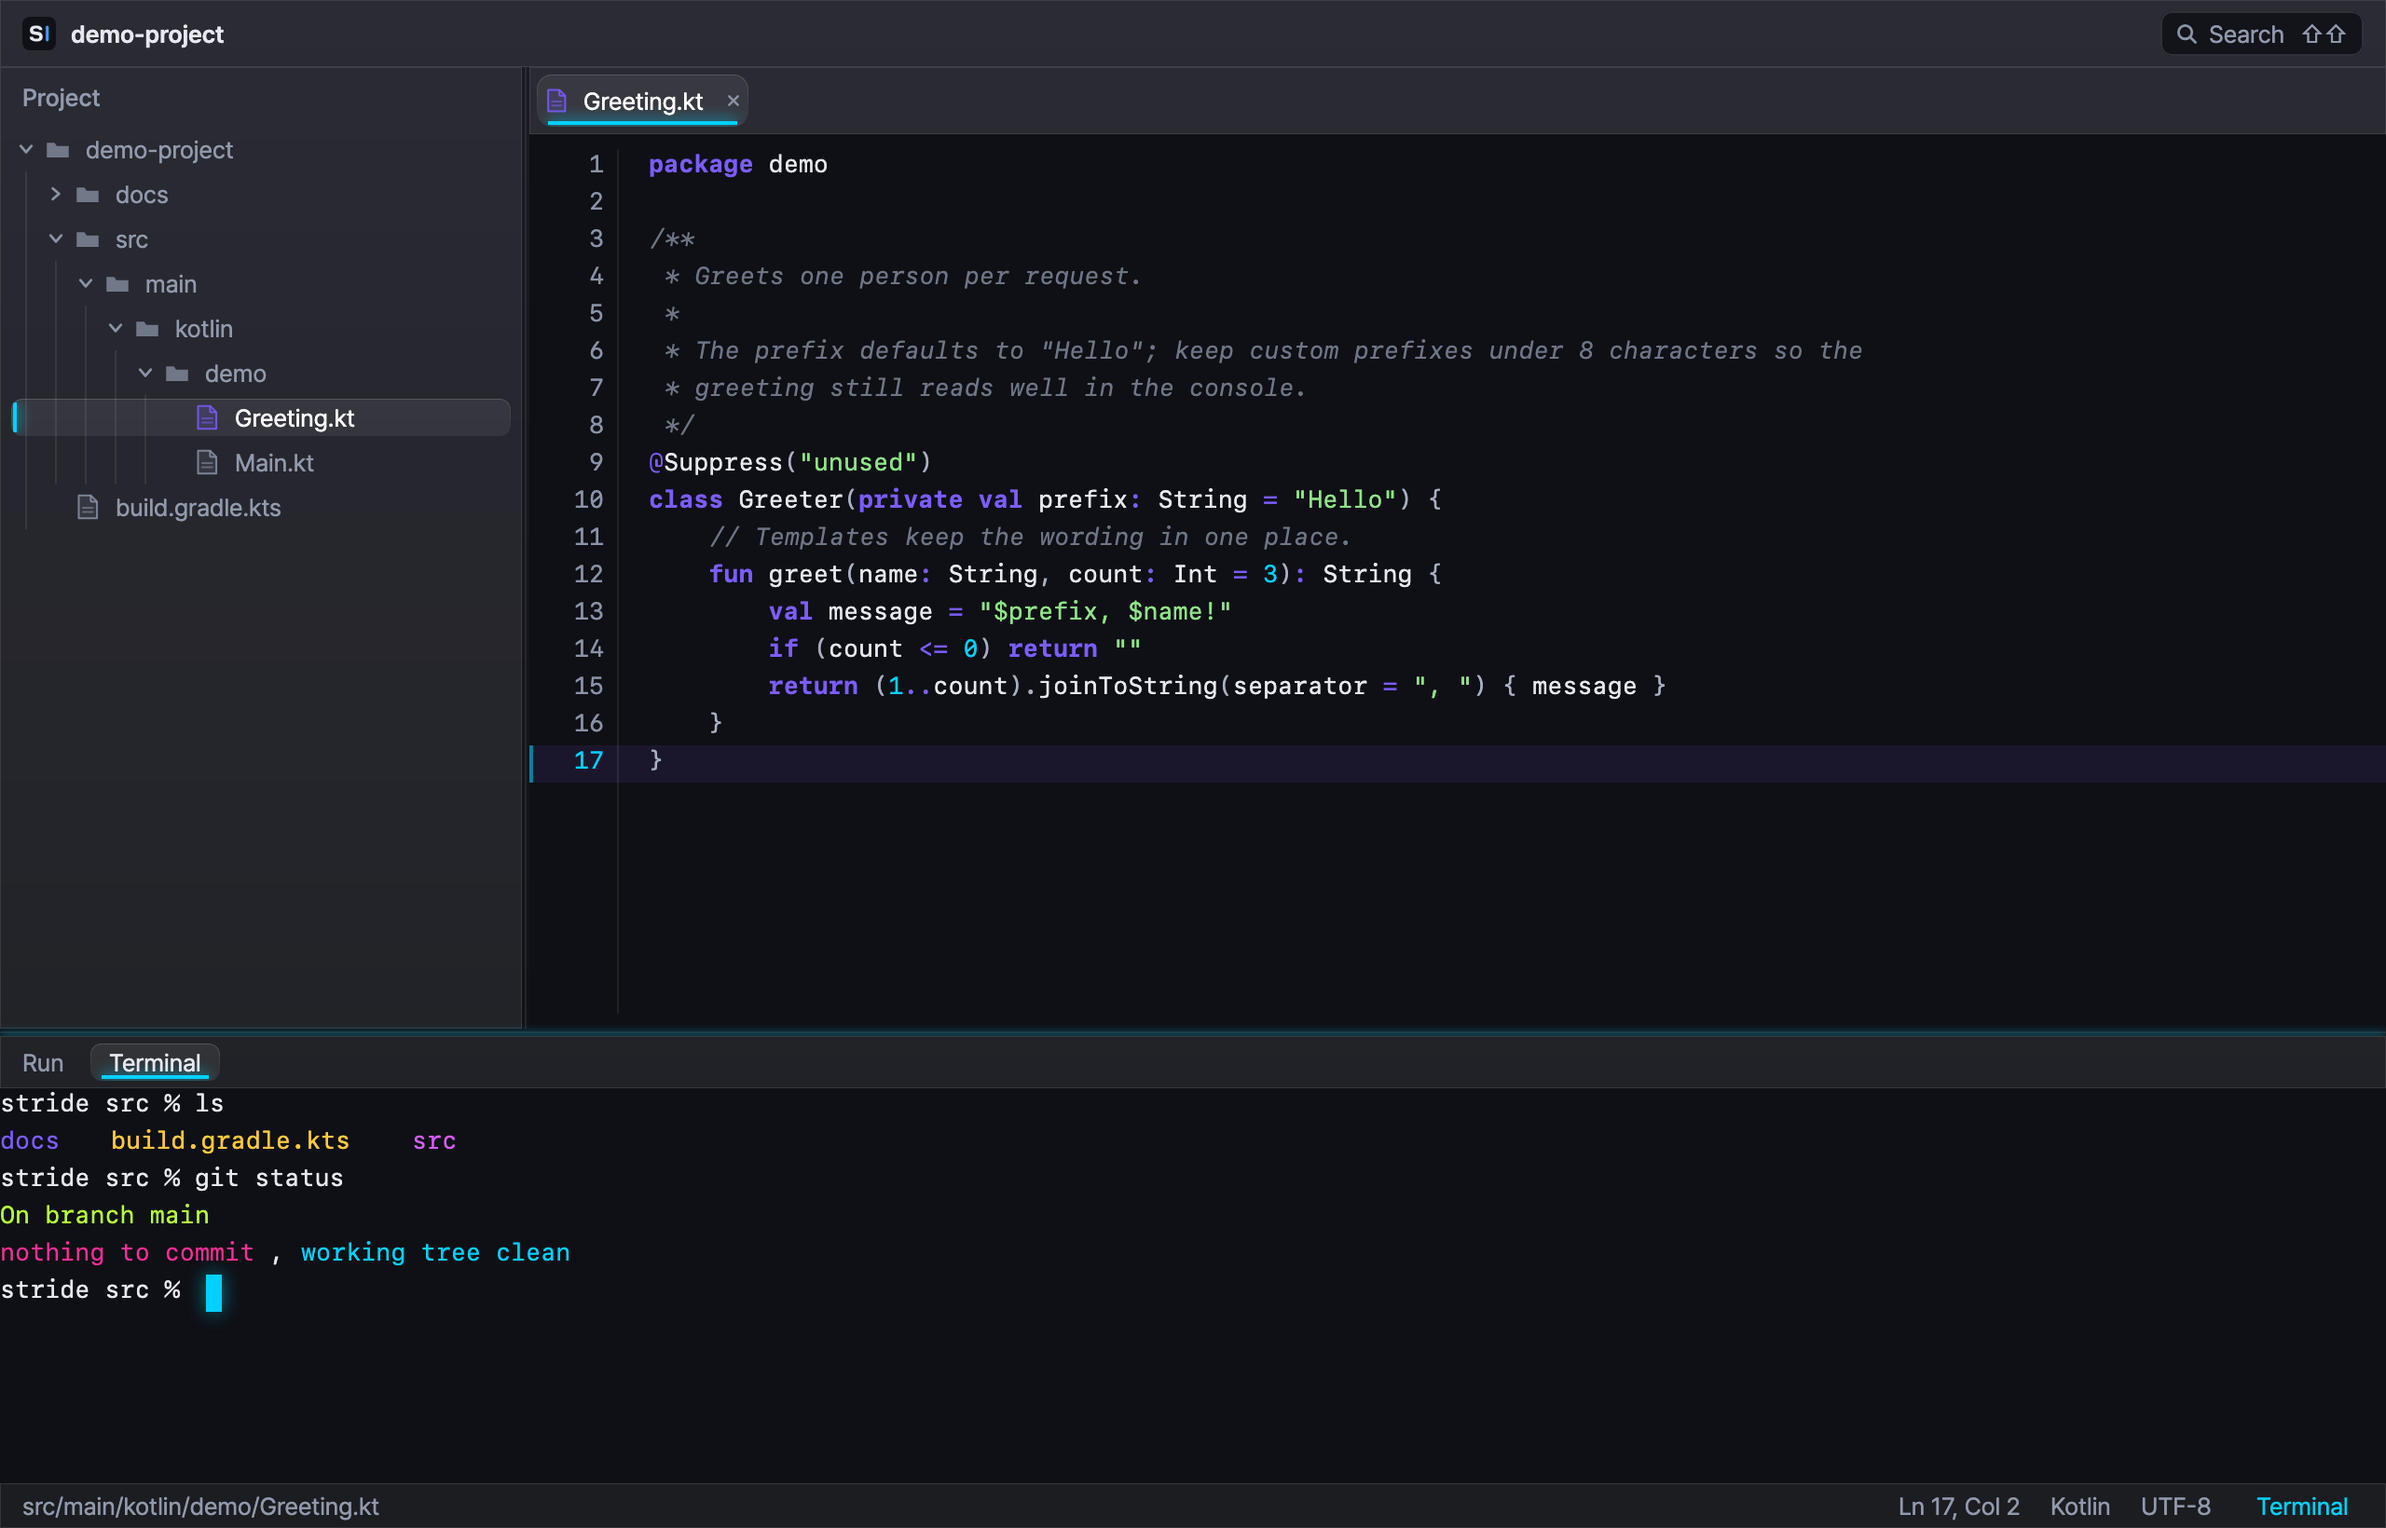
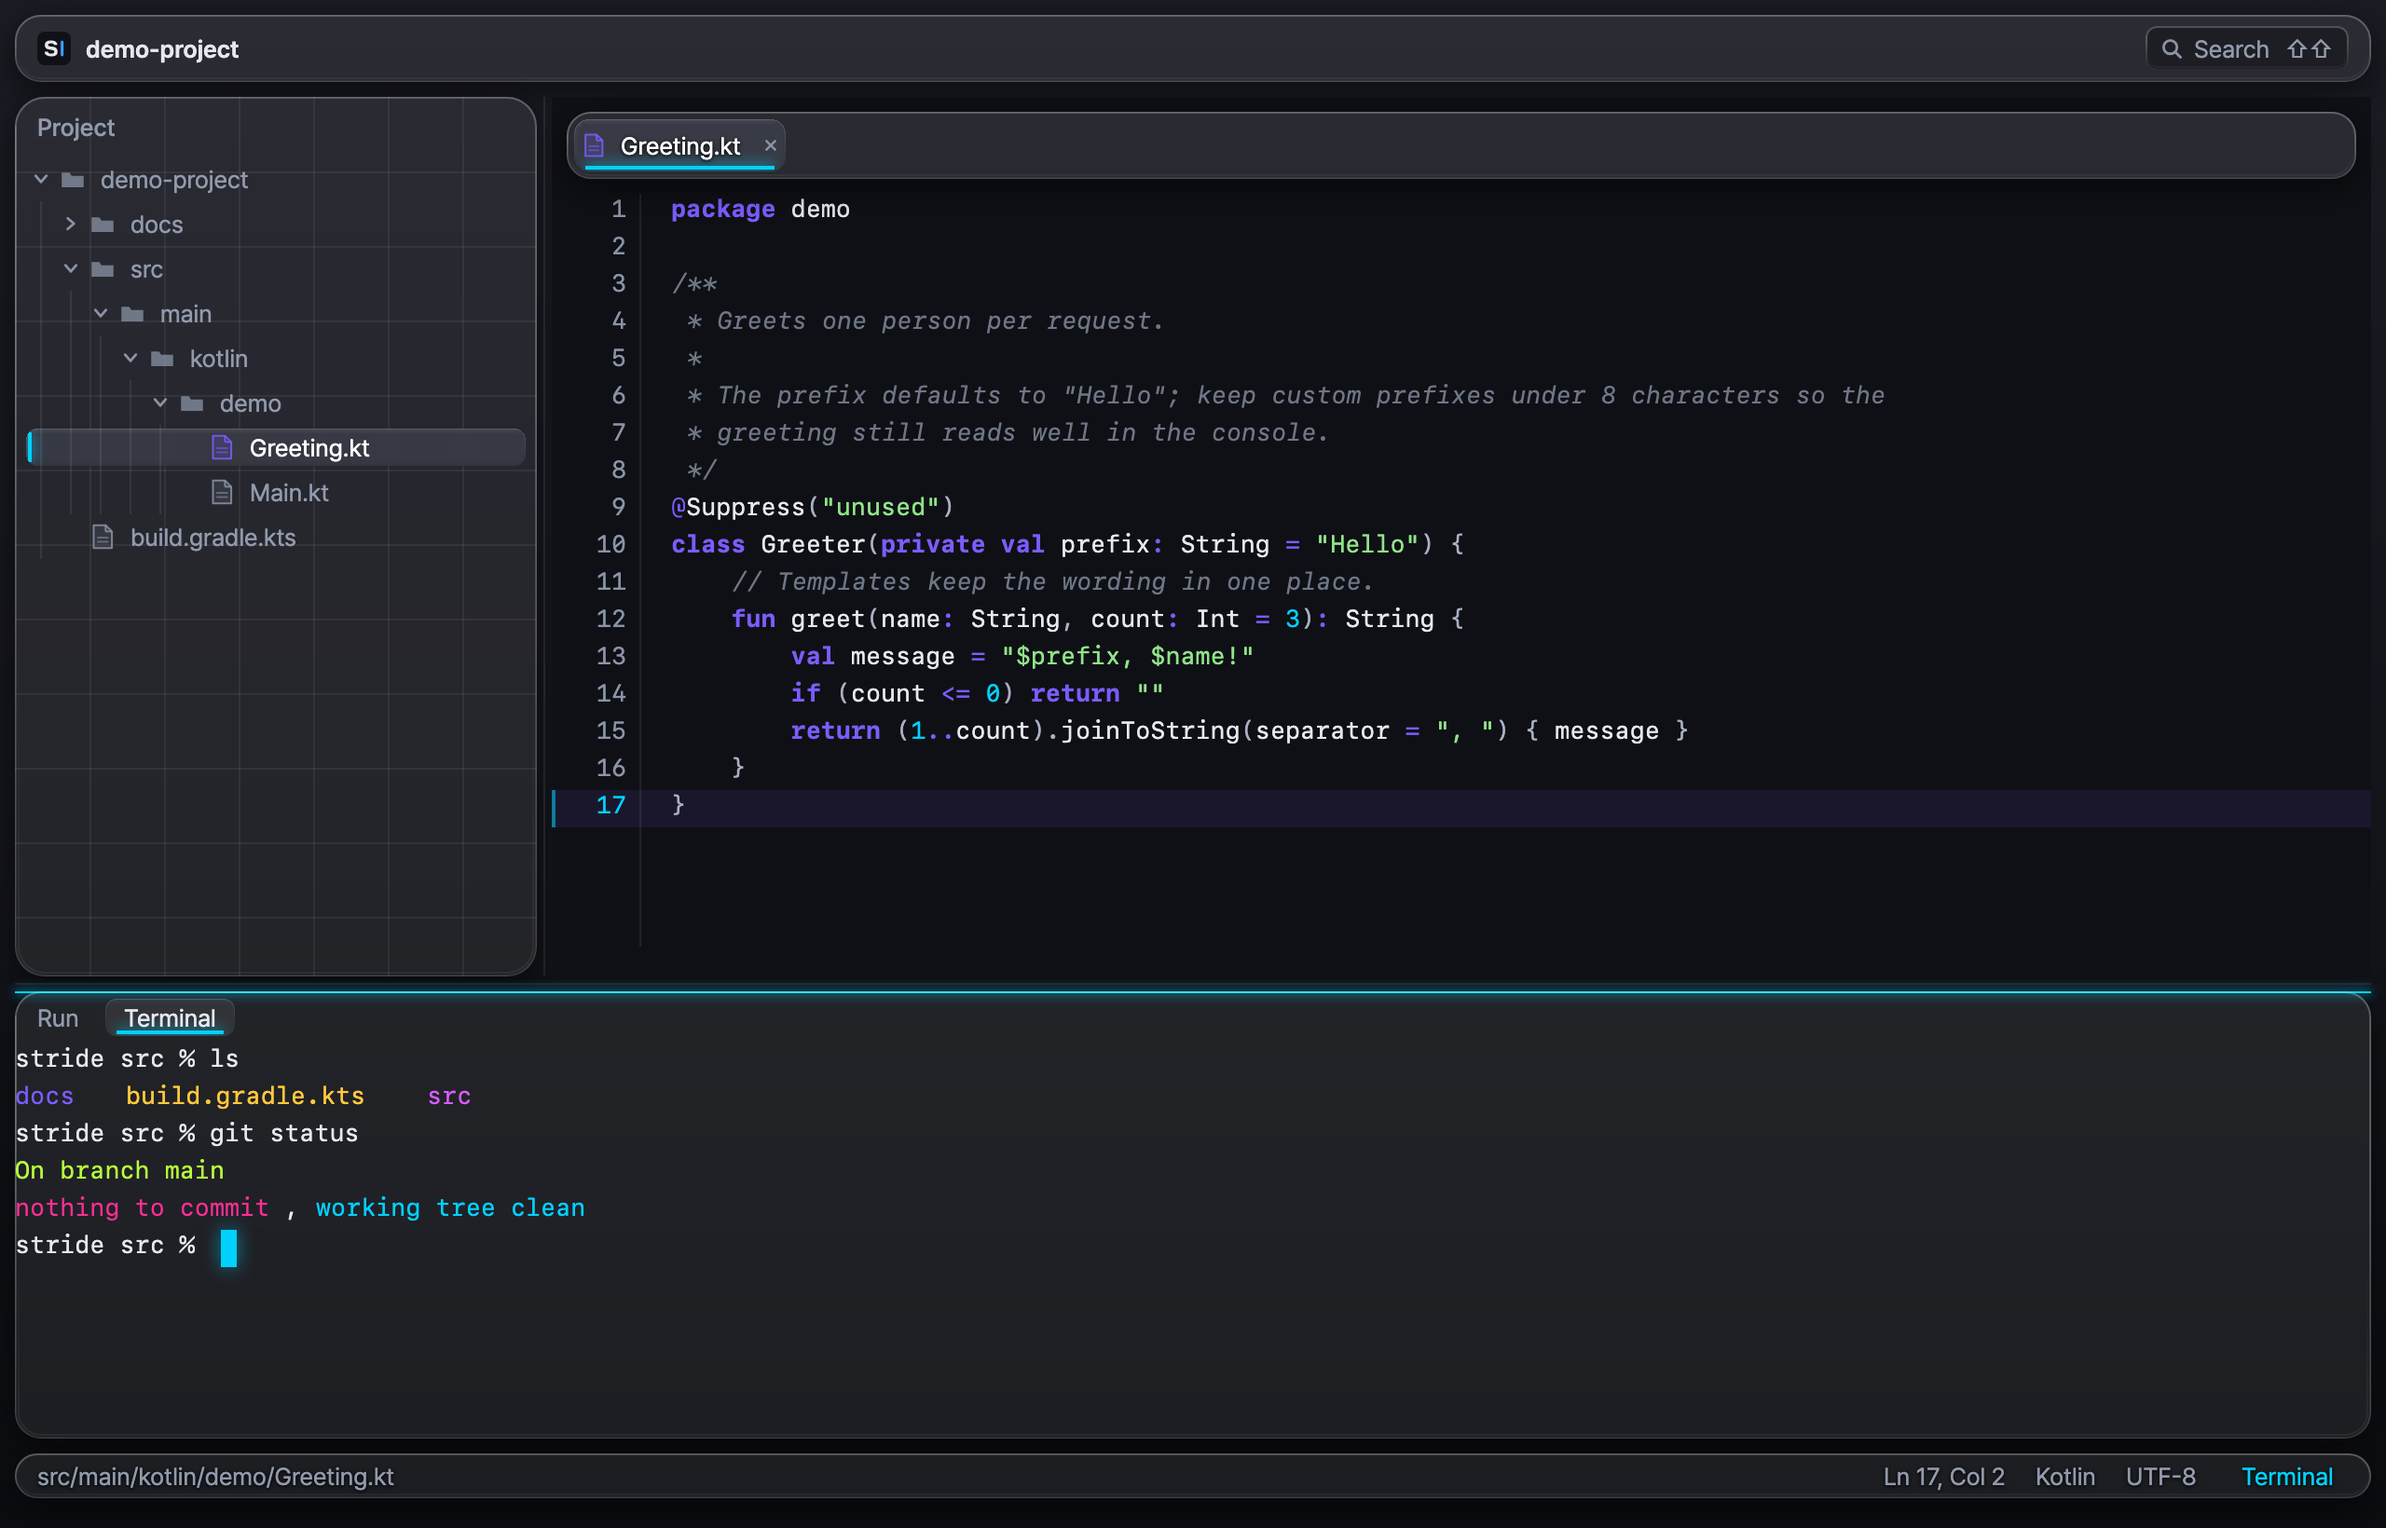
docs: #6 README 와 예시 그림 갱신
- 떠 있는 유리 슬래브, 바 아래로 지나가는 코드, 얇은 팝업 유리와 렌즈 캡슐, 큰 파일 스크롤 레이어를 리퀴드 글래스 UI 절에 반영
- 동작 방식에 스크롤 뷰포트·크롬 인셋과 1,000/800줄 레이어 임계 설명 추가
- glass.png 추가와 editor·search·find·terminal·run 그림 재생성, docs/images/README.md 목록 갱신

diff --git a/README.md b/README.md
@@ -126,14 +126,18 @@ brew install --cask lcalmsky/stride/stride
 <td valign="top">
 
 - **배경** 중립 그라파이트 바탕에 위에서 아래로 은은히 어두워지는 휘도 폴오프를 깔아 창 뒤에 둡니다. 색은 강조 요소에만 씁니다
-- **리퀴드 글래스** 프로젝트 트리·탭 줄·찾기 바·상태 바·도구 창은 흐린 프로스트 슬래브로, 팝업은 뒤 화면을 흐리고 가장자리를 굴절시키는 유리로 그립니다. 유리에는 가장자리 렌즈, 스페큘러 림, 중립 그림자가 있고, 셰이더를 쓸 수 없으면 블러와 헤어라인으로 대체합니다
-- **선택 신호** 선택한 행·탭·결과는 캡슐 리프트와 위쪽 스페큘러 림, 왼쪽(탭은 아래)의 2 dp 시안 막대, 번지는 글로우, 흰 텍스트로 표시합니다. 포커스를 받은 패널은 테두리에 얇은 선을 그립니다
-- **모션과 비용** 선택이 바뀔 때만 150 ms 동안 페이드하고 상시 애니메이션은 없습니다. 패널 블러는 크기별로 한 번 계산해 캐시하고, 팝업 렌즈는 1/4 해상도 사본에서 계산합니다. 에디터·터미널·콘솔은 불투명 틴트라 배경이 비치지 않습니다
+- **떠 있는 유리 슬래브** 사이드바·탭 줄·찾기 바·상태 바·제목 줄·도구 창은 창 가장자리에서 8 dp 띄운 둥근 유리 판입니다. 판마다 스페큘러 림과 캐시한 중립 그림자가 있고, 판 사이 틈으로 창 바탕이 보입니다
+- **코드가 유리 아래로** 에디터는 탭 줄과 상태 바 아래까지 이어져 스크롤한 코드가 유리를 통해 비칩니다. 팝업은 얇은 유리로 뒤의 코드를 비추고 가장자리 렌즈에서 코드를 휘게 하며, 굵은 텍스트 그림자가 라벨을 읽히게 합니다. 셰이더를 쓸 수 없으면 블러와 헤어라인으로 대체합니다
+- **선택 신호** 선택한 트리 행과 활성 탭은 작은 렌즈가 든 캡슐로 떠오르고, 위쪽 스페큘러 림, 시안 2 dp 막대, 번지는 글로우, 흰 텍스트로 표시합니다. 포커스를 받은 패널은 테두리에 얇은 선을 그립니다
+- **큰 파일** 1,000줄 이상 문서는 상수 비용 스크롤 레이어로 그려 프레임 비용을 묶고, 그때 바는 정적 유리로 바뀝니다. 800줄 아래로 줄어야 레이어를 풉니다
+- **모션과 비용** 선택이 바뀔 때만 150 ms 동안 페이드하고 상시 애니메이션은 없습니다. 슬래브 블러는 크기별로 한 번 계산해 캐시하고, 팝업 렌즈는 저해상도 사본에서 계산합니다
 - **UI 글꼴** 번들된 UI 글꼴을 쓰고, Actions 탭의 `Switch UI Font` 로 시스템 글꼴과 전환합니다. 선택은 저장되어 다음 실행에도 유지됩니다
 
 </td>
 </tr>
 </table>
+
+<p align="center"><img src="docs/images/glass.png" alt="코드 위에 뜬 Search Everywhere 유리 팝업" width="720"></p>
 
 <br>
 
@@ -244,6 +248,8 @@ JDK 21 이 필요합니다. Gradle toolchain 이 21 을 요구합니다.
 앱은 여섯 모듈로 나뉩니다. `core` 는 서비스·확장점·`Disposer` 를 제공하고, `lang` 은 언어와 파일 종류·하이라이터·주석 처리 API 를 정의합니다. `search` 는 파일 이름 인덱스, Kotlin·Java 선언 인덱스, Search Everywhere 의 모델을, `app` 은 Compose Desktop UI 와 에디터·탐색·북마크·Run·터미널을 담습니다. `plugins/lang-kotlin` 과 `plugins/lang-json` 이 각각 Kotlin 과 JSON 의 렉서·하이라이터·파일 종류를 등록합니다.
 
 모든 모듈은 `META-INF/stride-plugin.xml` 디스크립터로 확장점을 선언하고 확장을 등록합니다. 앱 디스크립터가 파일 종류, 문법 하이라이터, 주석 처리, 에디터, 트리 구조, Search Everywhere 기여자 확장점을 열고, 언어 플러그인과 앱 자신이 그 확장점에 등록합니다. 클래스·심볼 검색은 선언 인덱스를 읽는 기여자로 등록되고, 액션 검색은 앱이 직접 구성합니다. 자세한 계약은 [core](docs/api-core.md) · [lang](docs/api-lang.md) · [search](docs/api-search.md) · [app](docs/api-app.md) 에 있습니다.
+
+에디터는 스크롤 뷰포트와 크롬 인셋을 따로 둡니다. 내용은 창 가장자리까지 이어지고 바는 그 위에 겹쳐 그려지며, 인셋은 캐럿 스크롤·거터·스크롤바 여백에 반영됩니다. 1,000줄 이상 문서는 내용을 별도 스크롤 레이어에 배치하고 800줄 아래로 내려가면 레이어를 풉니다.
 
 <br>
 

diff --git a/README.en.md b/README.en.md
@@ -126,14 +126,18 @@ The app installs to `/Applications/strIDE.app`. It is Apple Silicon (arm64) only
 <td valign="top">
 
 - **Background** a neutral graphite base with a soft top-to-bottom luminance falloff sits behind the window content. Color is reserved for emphasis
-- **Liquid glass** the project tree, tab strip, find bar, status bar, and tool windows are frosted slabs; popups are glass that blurs the content behind them and refracts at the edges. Each pane has an edge lens, a specular rim, and a neutral shadow, and falls back to blur plus hairlines when the shader is unavailable
-- **Selection signal** a selected row, tab, or result gets a capsule lift, a specular top rim, a 2 dp cyan bar on the left (bottom for tabs), a bleeding glow, and white text. A focused panel draws a thin line around its border
-- **Motion and cost** a fade runs for 150 ms only when the selection changes; nothing animates continuously. Panel blur is computed once per size and cached, and the popup lens runs on a quarter-resolution copy. The editor, terminal, and console use an opaque tint, so the background does not show through them
+- **Floating glass slabs** the sidebar, tab strip, find bar, status bar, title bar, and tool windows are rounded glass slabs inset 8 dp from the window edge. Each slab has a specular rim and a cached neutral shadow, and the window base shows through the gaps between them
+- **Code under glass** the editor runs under the tab strip and status bar, so scrolled code shows through the glass. Popups are thin glass that shows the code behind and bends it at the rim, and a strong text shadow keeps labels legible; they fall back to blur plus hairlines when the shader is unavailable
+- **Selection signal** a selected tree row and the active tab float as capsules with a small lens, a specular top rim, a 2 dp cyan bar, a bleeding glow, and white text. A focused panel draws a thin line around its border
+- **Large files** documents of 1,000 lines or more scroll through a constant-cost layer, and the bars become static glass; the layer is released once the document shrinks below 800 lines
+- **Motion and cost** a fade runs for 150 ms only when the selection changes; nothing animates continuously. Slab blur is computed once per size and cached, and the popup lens runs on a lower-resolution copy
 - **UI font** the bundled UI font can be swapped for the system font with `Switch UI Font` in the Actions tab. The choice is saved for the next launch
 
 </td>
 </tr>
 </table>
+
+<p align="center"><img src="docs/images/glass.png" alt="The Search Everywhere glass popup over code" width="720"></p>
 
 <br>
 
@@ -244,6 +248,8 @@ JDK 21 is required; the Gradle toolchain asks for 21.
 The app is split into six modules. `core` provides services, extension points, and `Disposer`; `lang` defines the language, file type, highlighter, and commenter APIs. `search` holds the file name index, the Kotlin and Java declaration index, and the Search Everywhere model, and `app` contains the Compose Desktop UI with the editor, navigation, bookmarks, Run window, and terminal. `plugins/lang-kotlin` and `plugins/lang-json` register the Kotlin and JSON lexers, highlighters, and file types.
 
 Every module declares extension points and registers extensions through a `META-INF/stride-plugin.xml` descriptor. The app descriptor opens the file type, syntax highlighter, commenter, editor, tree structure, and Search Everywhere contributor extension points, and the language plugins and the app itself register into them. Class and symbol search register as contributors over the declaration index, and the app assembles action search directly. The full contracts are in [core](docs/api-core.md) · [lang](docs/api-lang.md) · [search](docs/api-search.md) · [app](docs/api-app.md).
+
+The editor keeps its scroll viewport and chrome insets separate: content runs to the window edge while the bars are drawn over it, and the insets feed caret scrolling, the gutter, and scrollbar padding. Documents of 1,000 lines or more place their content in a separate scroll layer and drop back below 800 lines.
 
 <br>
 
